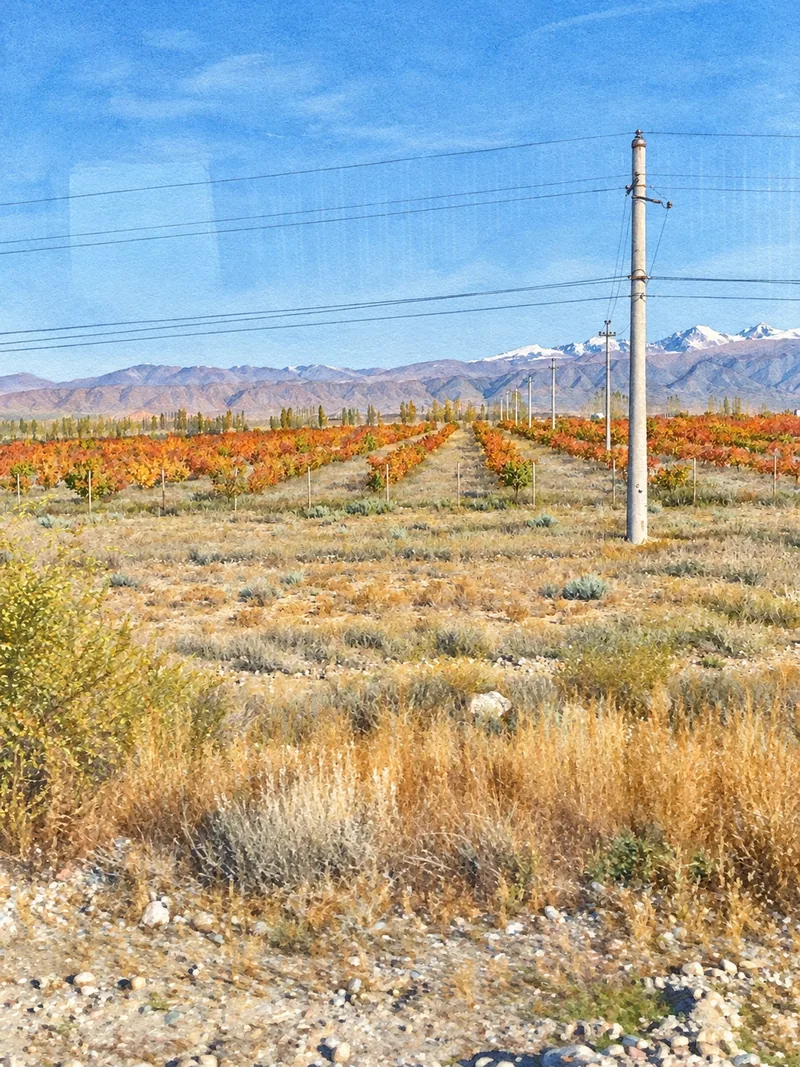
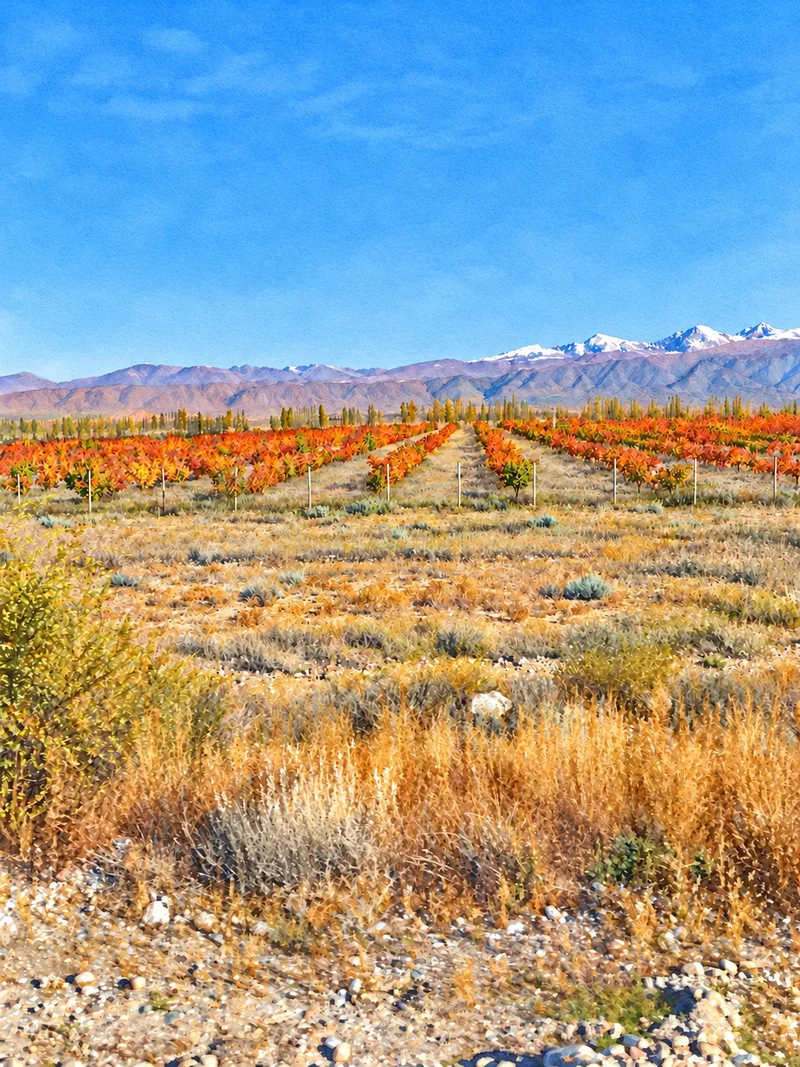
Remove bus-window reflections and landscape utility poles from illustrations

diff --git a/tests/service-worker.test.js b/tests/service-worker.test.js
@@ -4,7 +4,7 @@ import fs from 'node:fs';
 import vm from 'node:vm';
 
 const source = fs.readFileSync(new URL('../public/sw.js', import.meta.url), 'utf8');
-const current = 'ca26-pages-v7-minaret-refresh';
+const current = 'ca26-pages-v8-reflection-cleanup';
 function worker({ put = async () => {}, fetch = async () => new Response('network') } = {}) {
   const stores = new Map(), handlers = {};
   const caches = {
@@ -32,7 +32,7 @@ function worker({ put = async () => {}, fetch = async () => new Response('networ
 
 test('worker upgrade deletes only older travel-guide caches and preserves other sites', async () => {
   const { stores, handlers } = worker();
-  for (const key of ['ca26-pages-v5-bukhara-registan', 'ca26-pages-v6-three-country-guide', current, 'other-site-v1']) stores.set(key, new Map());
+  for (const key of ['ca26-pages-v5-bukhara-registan', 'ca26-pages-v6-three-country-guide', 'ca26-pages-v7-minaret-refresh', current, 'other-site-v1']) stores.set(key, new Map());
   let completion;
   handlers.activate({ waitUntil: promise => { completion = promise; } });
   await completion;

diff --git a/public/sw.js b/public/sw.js
@@ -1,4 +1,4 @@
-const CACHE = 'ca26-pages-v7-minaret-refresh';
+const CACHE = 'ca26-pages-v8-reflection-cleanup';
 const CACHE_PREFIX = 'ca26-pages-';
 const ROOT = '/codex/';
 

diff --git a/docs/audit/destination-images.md b/docs/audit/destination-images.md
@@ -62,7 +62,7 @@ Pages Actions [39142365237](https://github.com/JinhaPark/codex/actions/runs/3914
 | 보조 항목 | 보조·미확인 | Karven Four Seasons 리조트 | autumn-birch-walk-watercolor — Karven Four Seasons 리조트의 자작나무길 | 일정 7일차 → 여행 관찰 포인트 (`day:6:tip`) | 선택 사항 | 숙박 보조: 자작나무길 확보 |
 | 보조 항목 | 보조·미확인 | 비슈케크 SB bar | travel-steak-table-pencil — 비슈케크 SB bar — 토마호크 스테이크와 샐러드 | 일정 5일차 → 방문지와 지도 (`day:4:places`) | 선택 사항 | 식사 보조: 식탁 확보 |
 | 보조 항목 | 보조·미확인 | 꿀 구입·향신료·식판·거리 차량 | white-honey-jar-pencil — 흰색 뚜껑의 꿀 용기<br>suusamyr-honey-pencil — 수우사미르 산악 야생화꿀 — 노란 뚜껑과 초록색 라벨<br>bukhara-spice-stall-pencil — 부하라 향신료 가게 — 진열된 향신료와 차 시음<br>travel-meal-tray-pencil — 깨가 뿌려진 갈색 반찬과 잎채소를 담은 식판<br>street-classic-car-pencil — 타슈켄트 거리 — 모스크비치(Moskvich) 세단 | 환율/회화 → 쇼핑 · 키르기스스탄 꼬냑과 꿀 → 꿀 · 직접 구입한 제품 비교 (`shopping:honey:white`)<br>환율/회화 → 쇼핑 · 키르기스스탄 꼬냑과 꿀 → 꿀 · 직접 구입한 제품 비교 (`shopping:honey:yellow`)<br>여행 해설 → 1. 지리·기후·생활양식 → 오아시스의 집과 계절 목초지 (`geography:1:1`)<br>일정 2일차 → 여행 관찰 포인트 (`day:1:tip`)<br>일정 5일차 → 여행 관찰 포인트 (`day:4:tip`) | 선택 사항 | 쇼핑·식사·거리 보조: 관광지 확보로 대체하지 않음 |
-| 미확인 | 보조·미확인 | 촬영지 미확인 산간 농경지 | mountain-orchards-watercolor — 설산 앞 농경지와 전신주가 이어지는 산간 풍경 | 여행 해설 → 1. 지리·기후·생활양식 → 오아시스의 집과 계절 목초지 (`geography:1:0`) | 장소 확인 필요 | 사진의 촬영 장소를 사용자 설명으로 확인; 확인 전 특정 관광지에 배정하지 않음 |
+| 미확인 | 보조·미확인 | 촬영지 미확인 산간 농경지 | mountain-orchards-watercolor — 설산 아래 가을빛 농경지 | 여행 해설 → 1. 지리·기후·생활양식 → 오아시스의 집과 계절 목초지 (`geography:1:0`) | 장소 확인 필요 | 사진의 촬영 장소를 사용자 설명으로 확인; 확인 전 특정 관광지에 배정하지 않음 |
 | 미확인 | 보조·미확인 | 장소 미확인 청색 타일 아치 | uzbek-tilework-pencil — 아치와 벽면을 채운 청색 기하학 문양 | 여행 해설 → 이슬람 건축 읽기 — 벽돌·타일·곡선 → 재료에서 공간으로 (`comparative:0:0`) | 장소 확인 필요 | 사진의 촬영 장소를 사용자 설명으로 확인; 확인 전 특정 관광지에 배정하지 않음 |
 | 미확인 | 보조·미확인 | 촬영지 미확인 아랍 문자 필사본 | arabic-manuscript-pencil — 아랍 문자 필사본 — 검정·붉은 필기와 제본 | 여행 해설 → 타슈켄트 → 하즈라티 이맘과 종교 학문 (`tashkent:7:0`) | 장소 확인 필요 | 사진의 촬영 장소를 사용자 설명으로 확인; 확인 전 특정 관광지에 배정하지 않음 |
 
@@ -178,3 +178,11 @@ Pages Actions [39142365237](https://github.com/JinhaPark/codex/actions/runs/3914
 인물 정리본 게시 파일: public/illustrations/bukhara-kalyan-minaret-pencil-{480,800,1086}.webp. 실제 최적화 규격·용량은 images.md 최신 절에 기록했다. 사용자 요청으로 교체하므로 작품 수23·파일 수63은 유지한다.
 
 최종 검증: npm test13/13, npm run build, Pillow63개 실제 디코딩·규격·용량·메타데이터·중복 검사, Chromium375/390/430px 전체 회귀와 수정 칼랸 그림의 방문 후 오프라인 재열람을 통과했다(2026-10-18T16:13:26.012Z). 실제 iPhone Safari는 미검증. 다음 작업은 기존 요청 번호1–24 사진과 미확인 산간 풍경·필사본·아치의 장소 확인이다. 8932/8936 장소 확인과 칼랸 인물 정리는 완료이며 다시 생성할 필요가 없다. 같은 PR #2 최신 head에서 이어간다.
+
+## 차창 반사와 전선 정리 후 인계
+
+사용자 후속 요청으로 mountain-orchards-watercolor의 차창 반사·모든 전선·전신주를 제거하고 street-classic-car-pencil의 버스 차창 반사를 제거했다. 농경지 캡션은 “설산 아래 가을빛 농경지”로 수정했고 위치 미확인 상태는 유지한다. 모스크비치 차량 자체의 유리 반사와 자연 그림자는 유지했다. 기존ID/배치,23점63파일을 유지하며2점6파일을 교체했다. 최종규격·용량·의도적 수정 대상은 images.md 최신 절에 기록했다.
+
+앞선 미처리 작업 재점검: 공통 캡션 제거·칼랸 전경 인물 정리·8932/8936의 레기스탄 가운데 건물 촬영 확인은 완료다. 차창 반사와 전선 제거도 이번에 처리했다. 남은 요청은 누락 관광지20곳의 사진, 장소 확인2곳(번호11·12), 부분확보2곳(번호13·14)의 보완이다. 요청 번호1–24는 변경하지 않는다. 제공 사진이나 장소 정보 없이 새 관광지를 생성하지 않으며 main 병합·배포는 별도 요청 대기다. 실제 iPhone Safari 검증도 미수행으로 유지한다.
+
+이번 최종검증은2026-10-18T16:26:26.934Z의 browser.json이다. npm test13/13·build·63개 실제 디코딩/메타데이터·375/390/430px 및 수정2점의 방문 후 오프라인 재열람을 통과했다. 사진 요청 번호1–24를 그대로 유지한다. 이번 커밋은 같은 PR #2 최신 head에서 확인하며 main 병합·배포는 하지 않았다.

diff --git a/docs/audit/browser.md b/docs/audit/browser.md
@@ -62,3 +62,7 @@
 ## 칼랸 미나레트 교체 회귀
 
 2026-10-18T16:13:26.012Z, Chromium153.0.8010.0. 새 색연필화와 v7-minaret-refresh worker를 포함한 로컬 프로덕션 빌드에서375·390·430px, 전체 일정·탭·23개 배치·63개 변형 디코딩·캡션·준비물 저장 검사를 통과했다. v6 캐시명/현재 앱 통제 fixture에서 v7 업데이트와 타 사이트 캐시 보존을 확인했다. 방문한 이식쿨 그림과 수정한 칼랸 그림을 오프라인 새로고침 후 다시 decode했다. 실제 과거 번들 전체의 업데이트나 실제 iPhone Safari 검증은 수행하지 않았다. npm test13개·build·Pillow63개 전수 검사 통과. 새 버전은 PR 검토 단계이며 main 배포는 하지 않았다.
+
+## 차창 반사·전선 제거본 회귀
+
+2026-10-18T16:26:26.934Z, Chromium153.0.8010.0, 로컬 프로덕션 빌드 index-BSVyhk7I.js / index-DhzJzpNS.css. 농경지 수채화와 모스크비치 색연필화의 수정WebP6개를 포함한63개 전체 디코딩·규격과375·390·430px 전체23개 배치·비율·가로 넘침·세로 높이·캡션을 검증했다. 농경지 그림은 해설에서, 차량 그림은5일차 일정에서 실제 방문해 캐시한 뒤 오프라인 새로고침 후 다시 디코딩했다. v7 캐시명/현재 앱 통제 fixture→v8 전환·타 사이트 캐시 보존·준비물 저장도 통과했다. npm test13/13·build·Pillow 전수 검사 통과. 실제 iPhone Safari·과거 배포 번들 전체의 마이그레이션·실시간 환율 및 이번 PR의 배포는 검증하지 않았다.
